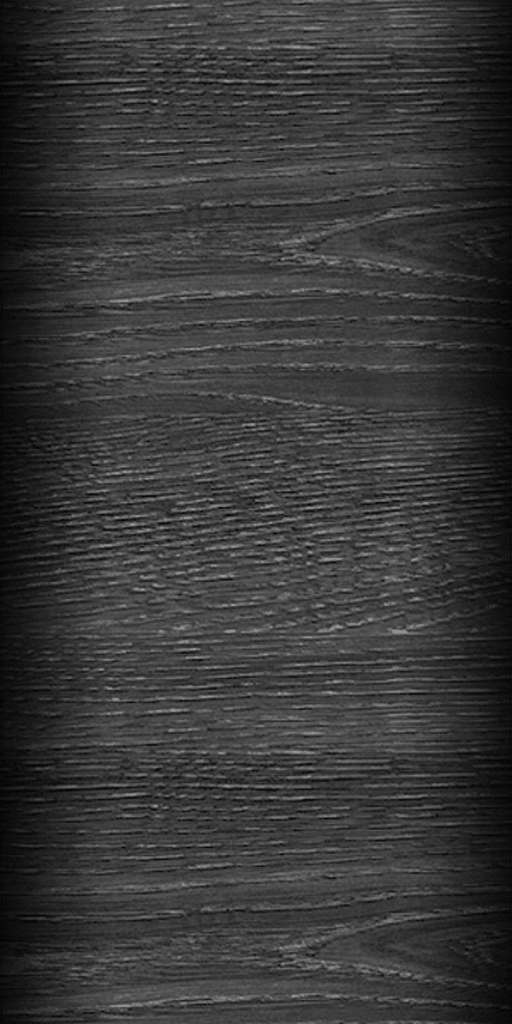
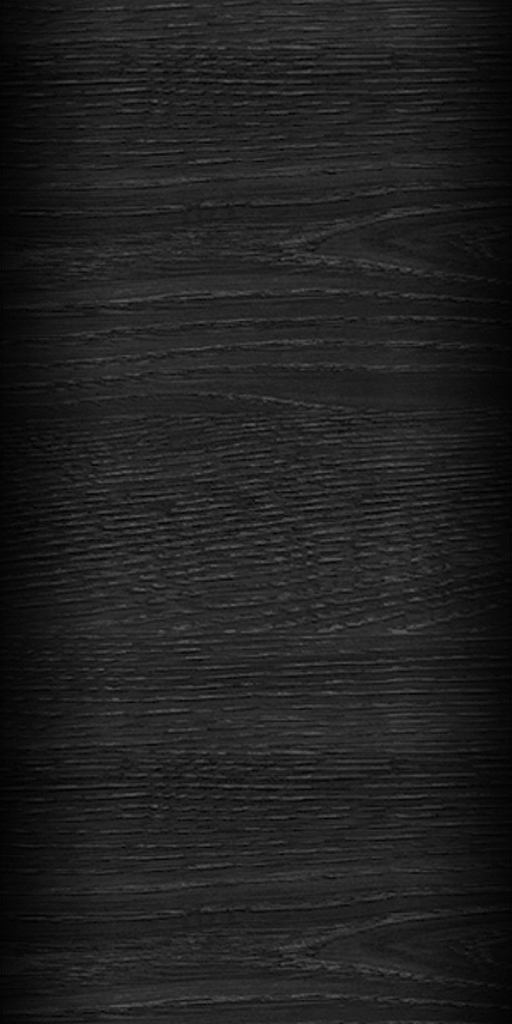
Added a crude grading mechanism for each hit.  Darkened the fretboard to make notes easier to see.

diff --git a/MinGH/GameScreen/SinglePlayer/GuitarInputManager.cs b/MinGH/GameScreen/SinglePlayer/GuitarInputManager.cs
@@ -13,17 +13,7 @@ namespace MinGH.GameScreen.SinglePlayer
     /// </summary>
     class GuitarInputManager : IInputManager
     {
-        /// <summary>
-        /// Uses the current keyboard state to figure out whether the user attempted to
-        /// hit a note or not.
-        /// </summary>
-        /// <param name="physicalNotes">The 2D array of drawable notes.</param>
-        /// <param name="noteParticleExplosionEmitters">The project mercury explosion emitters.</param>
-        /// <param name="hitBox">The current hit window.</param>
-        /// <param name="playerInformation">The player's current status.</param>
-        /// <param name="keyboardInputManager">The current state of the keyboard.</param>
-        /// <param name="inputNotechart">The Notechart currently being played.</param>
-        public void processPlayerInput(Note[,] physicalNotes,
+        public Point processPlayerInput(Note[,] physicalNotes,
                                        NoteParticleEmitters noteParticleEmitters,
                                        HorizontalHitBox hitBox, PlayerInformation playerInformation,
                                        IKeyboardInputManager keyboardInputManager,
@@ -34,17 +24,17 @@ namespace MinGH.GameScreen.SinglePlayer
                 if (keyboardInputManager.getHighestHeldKey() != Keys.None)
                 {
                     // Strums are ignored when the user is in the HOPO state (i.e. GH5 style)
-                    triggerInput(physicalNotes, noteParticleEmitters, hitBox, keyboardInputManager, playerInformation, inputNotechart, false);
+                    return triggerInput(physicalNotes, noteParticleEmitters, hitBox, keyboardInputManager, playerInformation, inputNotechart, false);
                 }
             }
             else
             {
-                if ((keyboardInputManager.keyIsHit(KeyboardConfiguration.upStrum) || keyboardInputManager.keyIsHit(KeyboardConfiguration.downStrum)) &&
-                    (keyboardInputManager.getHighestHeldKey() != Keys.None))
+                if (keyboardInputManager.keyIsHit(KeyboardConfiguration.upStrum) || keyboardInputManager.keyIsHit(KeyboardConfiguration.downStrum))
                 {
-                    triggerInput(physicalNotes, noteParticleEmitters, hitBox, keyboardInputManager, playerInformation, inputNotechart, true);
+                    return triggerInput(physicalNotes, noteParticleEmitters, hitBox, keyboardInputManager, playerInformation, inputNotechart, true);
                 }
             }
+            return new Point(0, 0);
         }
 
         /// <summary>
@@ -57,7 +47,7 @@ namespace MinGH.GameScreen.SinglePlayer
         /// <param name="playerInformation">The player's current status.</param>
         /// <param name="inputNotechart">The Notechart currently being played.</param>
         /// <param name="wasStrummed">Whether a strum was executed.</param>
-        private static void triggerInput(Note[,] physicalNotes,
+        private static Point triggerInput(Note[,] physicalNotes,
                                          NoteParticleEmitters noteParticleExplosionEmitters,
                                          HorizontalHitBox hitBox, IKeyboardInputManager keyboardInputManager, 
                                          PlayerInformation playerInformation,
@@ -198,6 +188,8 @@ namespace MinGH.GameScreen.SinglePlayer
                                 playerInformation.hitNote(false, Note2D.pointValue * chordDegree);
                             }
                         }
+                        // Calculate how far the hit note is from the center of the hitbox and return
+                        return new Point(1, (int)(physicalNotes[hitNote, farthestNoteIndex].position3D.Z + hitBox.centerLocation));
                     }
 
                     // If true, we tried to hit a chord, but did not hit the highest note
@@ -232,6 +224,9 @@ namespace MinGH.GameScreen.SinglePlayer
                         {
                             playerInformation.hitNote(false, physicalNotes[hitNote, farthestNoteIndex].pointValue);
                         }
+
+                        // Calculate how far the hit note is from the center of the hitbox and return
+                        return new Point(1, (int)(physicalNotes[hitNote, farthestNoteIndex].position3D.Z + hitBox.centerLocation));
                     }
                 }
             }
@@ -243,6 +238,7 @@ namespace MinGH.GameScreen.SinglePlayer
                     playerInformation.missNote();
                 }
             }
+            return new Point(0, 0);
         }
     }
 }

diff --git a/MinGH/GameScreen/SinglePlayer/SinglePlayerScreen.cs b/MinGH/GameScreen/SinglePlayer/SinglePlayerScreen.cs
@@ -55,6 +55,7 @@ namespace MinGH.GameScreen.SinglePlayer
         Effect effect;
         float distanceFromNoteStartToHitmarker;
         float currStepPerMilisecond; // How many game space units a note must move per milisecond
+        Point currentGrade; // The grade of the last hit note (how close it was to the center of the hitbox)
 
         // Variables related to the audio playing and note syncing
         private GameEngine.FMOD.System system;
@@ -98,6 +99,7 @@ namespace MinGH.GameScreen.SinglePlayer
             effect = gameReference.Content.Load<Effect>("effects");
             texturedVertexDeclaration = new VertexDeclaration(graphics.GraphicsDevice, VertexPositionTexture.VertexElements);
             fretboards = new List<Fretboard>();
+            currentGrade = new Point();
             spriteBatch = new SpriteBatch(graphics.GraphicsDevice);
             gameConfiguration = new GameConfiguration("./config.xml");
             hitBox = new HorizontalHitBox((int)(gameConfiguration.themeSetting.hitMarkerDepth + (gameConfiguration.themeSetting.hitMarkerSize / 2.0f)),
@@ -298,9 +300,9 @@ namespace MinGH.GameScreen.SinglePlayer
             //float currStep = (float)(gameTime.ElapsedGameTime.TotalMilliseconds * gameConfiguration.speedModValue.noteVelocityMultiplier);
             float currStep = (float)(gameTime.ElapsedGameTime.TotalMilliseconds * currStepPerMilisecond);
 
-            inputManager.processPlayerInput(notes, noteParticleEmitters, hitBox,
-                                                  playerInformation, keyboardInputManager,
-                                                  mainChart.noteCharts[0]);
+            currentGrade = inputManager.processPlayerInput(notes, noteParticleEmitters, hitBox,
+                                                           playerInformation, keyboardInputManager,
+                                                           mainChart.noteCharts[0]);
 
             noteUpdater.updateNotes(mainChart.noteCharts[0], ref noteIterator, notes, viewportRectangle,
                                     currStep, currentMsec + gameConfiguration.MSOffset,
@@ -322,13 +324,50 @@ namespace MinGH.GameScreen.SinglePlayer
                            "Guitar: " + guitarPosition + "\n" +
                            "Bass: " + bassPosition + "\n" +
                            "Drum: " + drumPosition;
-            strManager.SetString(0, "Hitbox Y: " + hitBox.centerLocation + "\nHitbox Height: " + hitBox.goodThreshold / 2);
+            strManager.SetString(0, "Hitbox Y: " + hitBox.centerLocation + "\nHitbox Height: " + hitBox.goodThreshold * 2);
             strManager.SetString(1, times);
             strManager.SetString(3, "Score: " + playerInformation.currentScore.ToString() + "\n\n" +
                                      "Multiplier : " + playerInformation.currentMultiplier.ToString() + "\n\n" +
                                      "Combo :" + playerInformation.currentCombo.ToString());
             strManager.SetString(4, "Health: " + playerInformation.currentHealth.ToString());
 
+            
+            if (currentGrade.X == 1)  // Will not be 1 unless a note was hit and inside the hitbox
+            {
+                string gradeString = "Early <----> Late\n";
+                
+                // Top Good
+                if (currentGrade.Y < -hitBox.greatThreshold)
+                {
+                    gradeString += "<----";
+                }
+                
+                // Top Great
+                else if (currentGrade.Y < -hitBox.perfectThreshold)
+                {
+                    gradeString += "<--";
+                }
+
+                // Perfect
+                else if (currentGrade.Y < hitBox.perfectThreshold)
+                {
+                    gradeString += "(^_^)";
+                }
+
+                // Bottom Great
+                else if (currentGrade.Y < hitBox.greatThreshold)
+                {
+                    gradeString += "-->";
+                }
+
+                // Bottom Good
+                else
+                {
+                    gradeString += "---->";
+                }
+                strManager.SetString(5, gradeString);
+            }
+            
             // Ensure the audio tracks are within 50 MS accuracy
             if ((((int)guitarPosition - (int)currentMsec > 50) ||
                 ((int)guitarPosition - (int)currentMsec < -50)) &&

diff --git a/MinGH/GameScreen/SinglePlayer/DrumInputManager.cs b/MinGH/GameScreen/SinglePlayer/DrumInputManager.cs
@@ -14,27 +14,19 @@ namespace MinGH.GameScreen.SinglePlayer
     /// </summary>
     public class DrumInputManager : IInputManager
     {
-        /// <summary>
-        /// Uses the current keyboard state to figure out whether the user attempted to
-        /// hit a note or not.
-        /// </summary>
-        /// <param name="physicalNotes">The 2D array of drawable notes.</param>
-        /// <param name="noteParticleExplosionEmitters">The project mercury explosion emitters.</param>
-        /// <param name="hitBox">The current hit window.</param>
-        /// <param name="playerInformation">The player's current status.</param>
-        /// <param name="keyboardInputManager">The current state of the keyboard.</param>
-        /// <param name="inputNotechart">The Notechart currently being played.</param>
-        public void processPlayerInput(Note[,] physicalNotes,
+        public Point processPlayerInput(Note[,] physicalNotes,
                                        NoteParticleEmitters noteParticleEmitters,
                                        HorizontalHitBox hitBox, PlayerInformation playerInformation,
                                        IKeyboardInputManager keyboardInputManager,
                                        Notechart inputNotechart)
         {
-                if (keyboardInputManager.anyKeyIsHit())
-                {
-                    // Strums are ignored when the user is in the HOPO state (i.e. GH5 style)
-                    triggerInput(physicalNotes, noteParticleEmitters, hitBox, keyboardInputManager, playerInformation, inputNotechart);
-                }
+            if (keyboardInputManager.anyKeyIsHit())
+            {
+                // Strums are ignored when the user is in the HOPO state (i.e. GH5 style)
+                return triggerInput(physicalNotes, noteParticleEmitters, hitBox, keyboardInputManager, playerInformation, inputNotechart);
+            }
+
+            return new Point(0, 0);
         }
 
         /// <summary>
@@ -46,7 +38,7 @@ namespace MinGH.GameScreen.SinglePlayer
         /// <param name="keyboardInputManager">The current state of the keyboard.</param>
         /// <param name="playerInformation">The player's current status.</param>
         /// <param name="inputNotechart">The Notechart currently being played.</param>
-        private static void triggerInput(Note[,] physicalNotes,
+        private static Point triggerInput(Note[,] physicalNotes,
                                          NoteParticleEmitters noteParticleExplosionEmitters,
                                          HorizontalHitBox hitBox, IKeyboardInputManager keyboardInputManager, 
                                          PlayerInformation playerInformation,
@@ -91,12 +83,16 @@ namespace MinGH.GameScreen.SinglePlayer
                     physicalNotes[hitNote, farthestNoteIndex].alive = false;
 
                     playerInformation.hitNote(false, physicalNotes[hitNote, farthestNoteIndex].pointValue);
+
+                    // Calculate how far the hit note is from the center of the hitbox and return
+                    return new Point(1, (int)(physicalNotes[hitNote, farthestNoteIndex].position3D.Z + hitBox.centerLocation));
                 }
                 else
                 {
                     playerInformation.missNote();
                 }
             }
+            return new Point(0, 0);
         }
     }
 }

diff --git a/MinGH/Interfaces/IInputManager.cs b/MinGH/Interfaces/IInputManager.cs
@@ -2,6 +2,7 @@
 using MinGH.EngineExtensions;
 using MinGH.GameScreen.SinglePlayer;
 using MinGH.GameScreen;
+using Microsoft.Xna.Framework;
 
 namespace MinGH.Interfaces
 {
@@ -17,7 +18,11 @@ namespace MinGH.Interfaces
         /// <param name="playerInformation">The player's current status.</param>
         /// <param name="keyboardInputManager">The current state of the keyboard.</param>
         /// <param name="inputNotechart">The Notechart currently being played.</param>
-        void processPlayerInput(Note[,] physicalNotes,
+        /// <returns>A two number mechanism (point is used due to its avaliblity).
+        ///          The X number tells if the returned value is valid (i.e. was a note hit)
+        ///          The Y number tells how far the note was hit from the center of the hitbox
+        ///             NOTE: Negative Y means hit early and Positive Y means hit late.</returns>
+        Point processPlayerInput(Note[,] physicalNotes,
                                 NoteParticleEmitters noteParticleEmitters,
                                 HorizontalHitBox hitBox, PlayerInformation playerInformation,
                                 IKeyboardInputManager keyboardInputManager,

diff --git a/MinGH/GameScreen/SinglePlayer/SinglePlayerStringInitializer.cs b/MinGH/GameScreen/SinglePlayer/SinglePlayerStringInitializer.cs
@@ -24,6 +24,7 @@ namespace MinGH.GameScreen.SinglePlayer
              *      [2] = Song Information
              *      [3] = Player Score, multiplier and combo
              *      [4] = Player Health
+             *      [5] = Perfect Meter
              */
             GameStringManager stringManagerToReturn = new GameStringManager();
 
@@ -32,6 +33,7 @@ namespace MinGH.GameScreen.SinglePlayer
             stringManagerToReturn.Add(new GameString(new Vector2(screenWidth - 80f, 120f), Color.White));  // 2
             stringManagerToReturn.Add(new GameString(new Vector2(screenWidth - 80f, screenHeight - 100f), Color.White));  // 3
             stringManagerToReturn.Add(new GameString(new Vector2(80f, screenHeight - 100f), Color.White));  // 4
+            stringManagerToReturn.Add(new GameString(new Vector2(screenWidth - 80f, 250f), Color.White)); // 5
 
             return stringManagerToReturn;
         }

diff --git a/MinGH/MinGH.cs b/MinGH/MinGH.cs
@@ -37,8 +37,15 @@ namespace MinGH
                 graphics.ToggleFullScreen();
                 graphics.PreferredBackBufferWidth = 1920;
                 graphics.PreferredBackBufferHeight = 1080;
-                graphics.ApplyChanges();
+                
             }
+            else
+            {
+                graphics.PreferredBackBufferWidth = 1024;
+                graphics.PreferredBackBufferHeight = 768;
+            }
+
+            graphics.ApplyChanges();
 
             Window.Title = "MinGH";
             Components.Add(new MainMenuScreen(this, graphics));

diff --git a/MinGH/GameScreen/SinglePlayer/HorizontalHitBox.cs b/MinGH/GameScreen/SinglePlayer/HorizontalHitBox.cs
@@ -41,7 +41,7 @@ namespace MinGH.GameScreen.SinglePlayer
         /// The base size of the hitbox before the note velocity is taken into
         /// consideration.
         /// </summary>
-        public const int hitBoxSize = 90;
+        public const int hitBoxSize = 50;
 
         /// <summary>
         /// Default Constructor.  Doesn't really serve any purpose, but will be kept for
